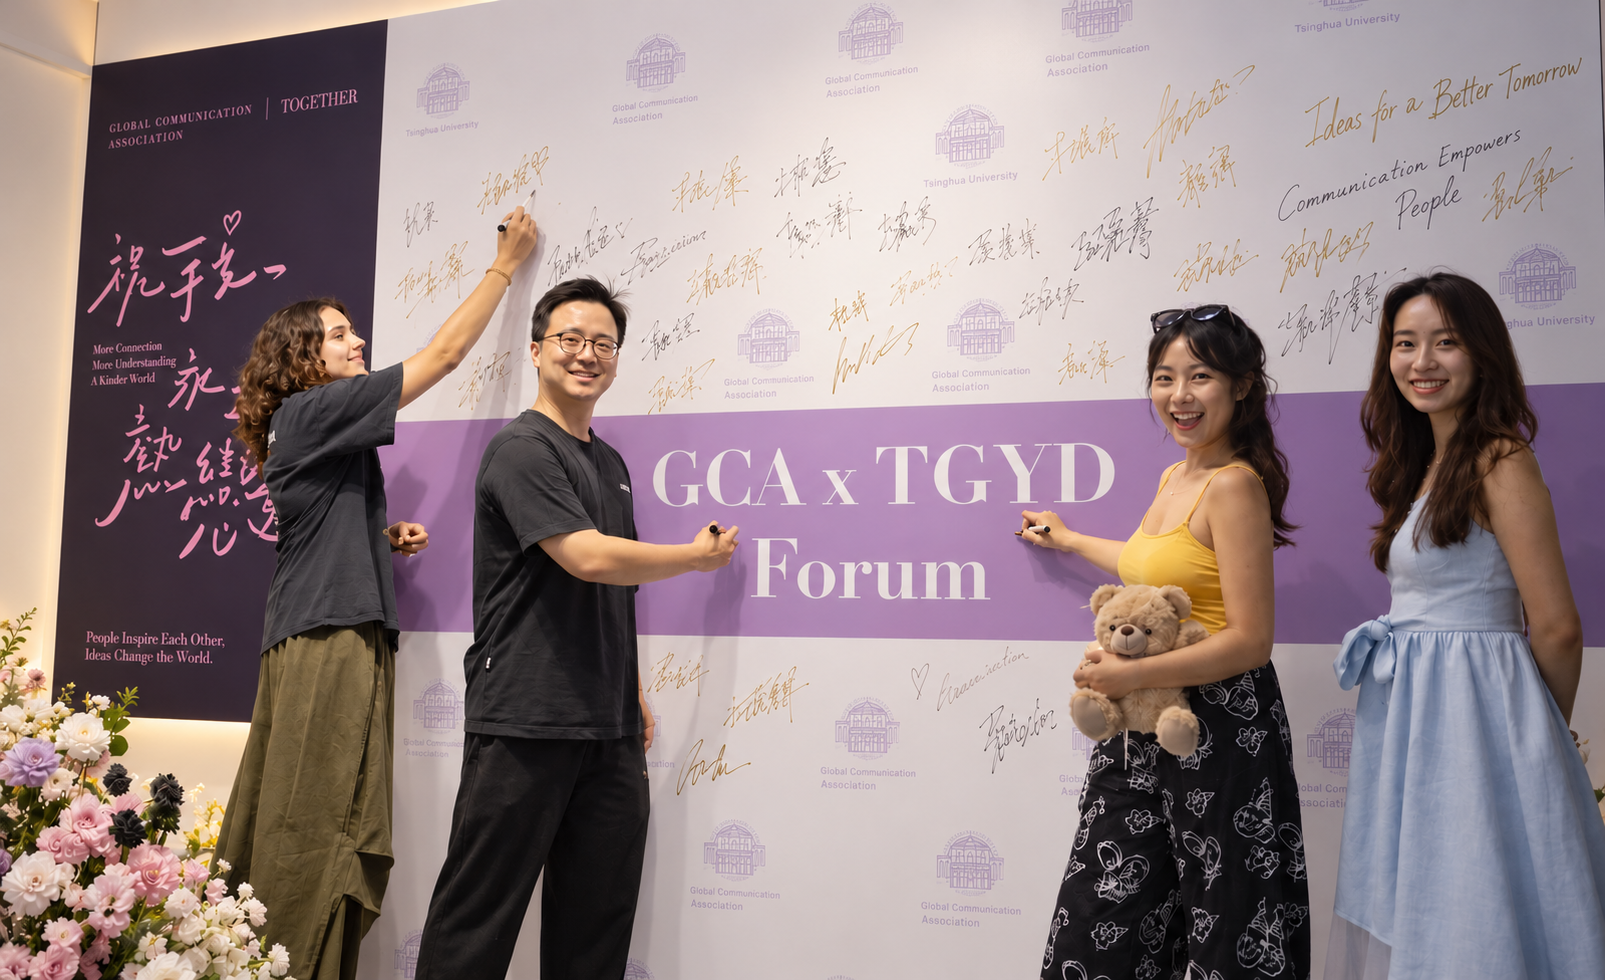
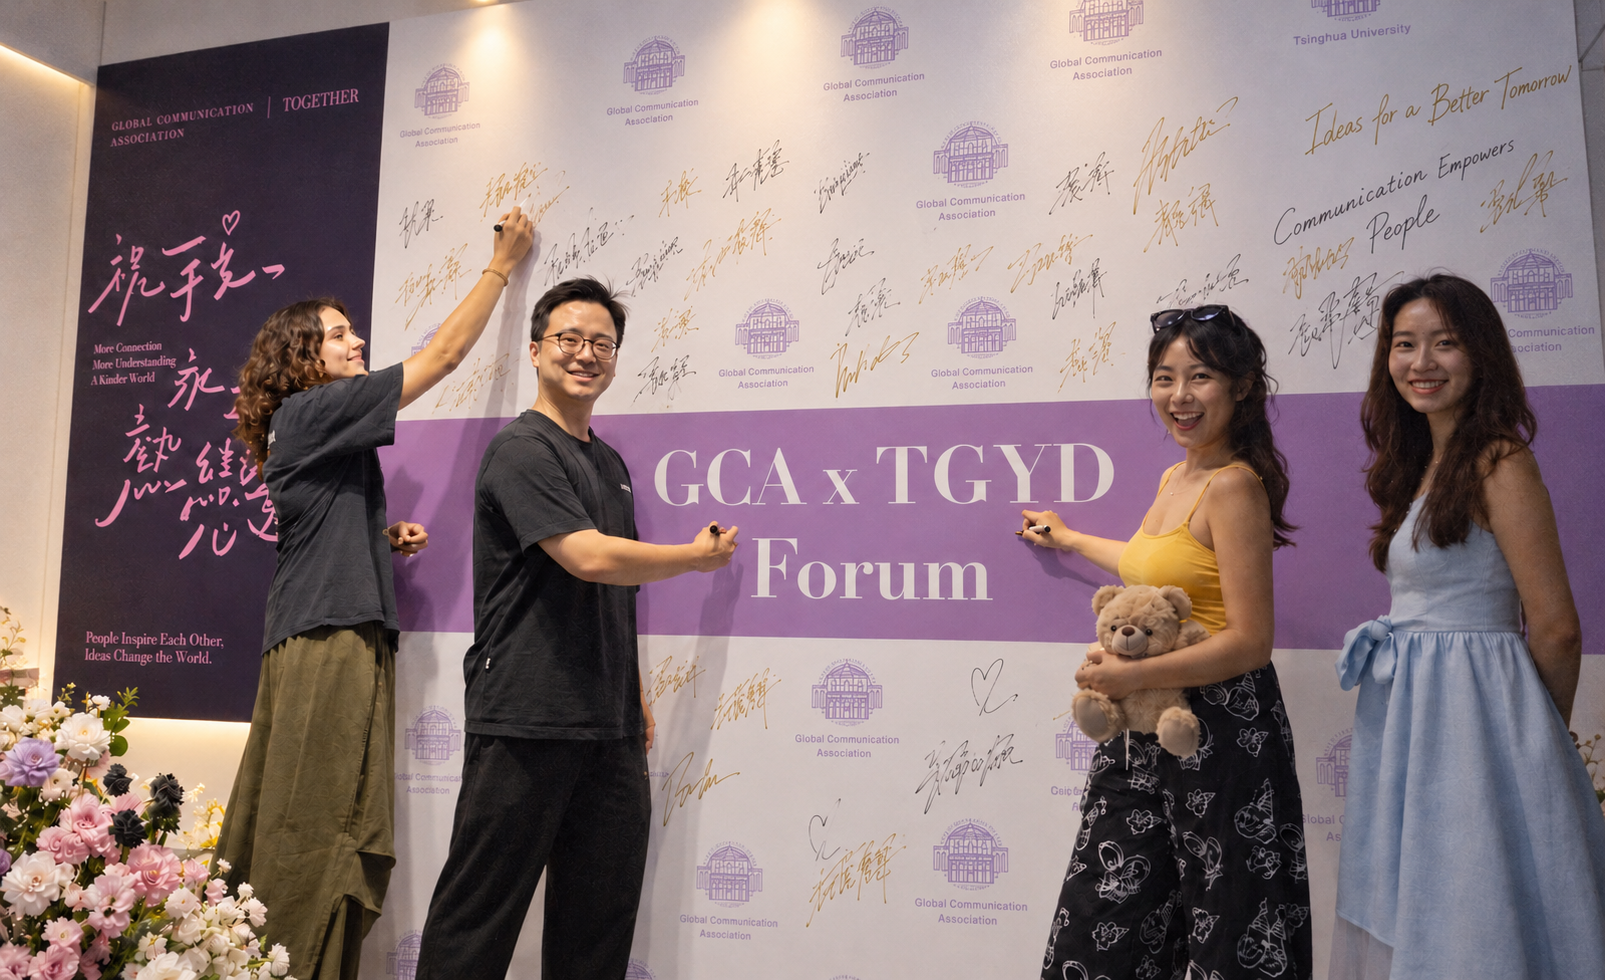
Update TGYD showcase with latest photo

diff --git a/public/index.html b/public/index.html
@@ -446,7 +446,7 @@
       </article>
       <article class="showcase-card">
         <div class="showcase-image">
-          <img src="/assets/events/gca-tgyd.png?v=3ca618f4d5" alt="GCA × TGYD Forum signing wall" loading="lazy" decoding="async">
+          <img src="/assets/events/gca-tgyd.png?v=7be67acf02" alt="GCA × TGYD Forum signing wall" loading="lazy" decoding="async">
         </div>
         <div class="showcase-body">
           <span class="showcase-tag">Partnership</span>
